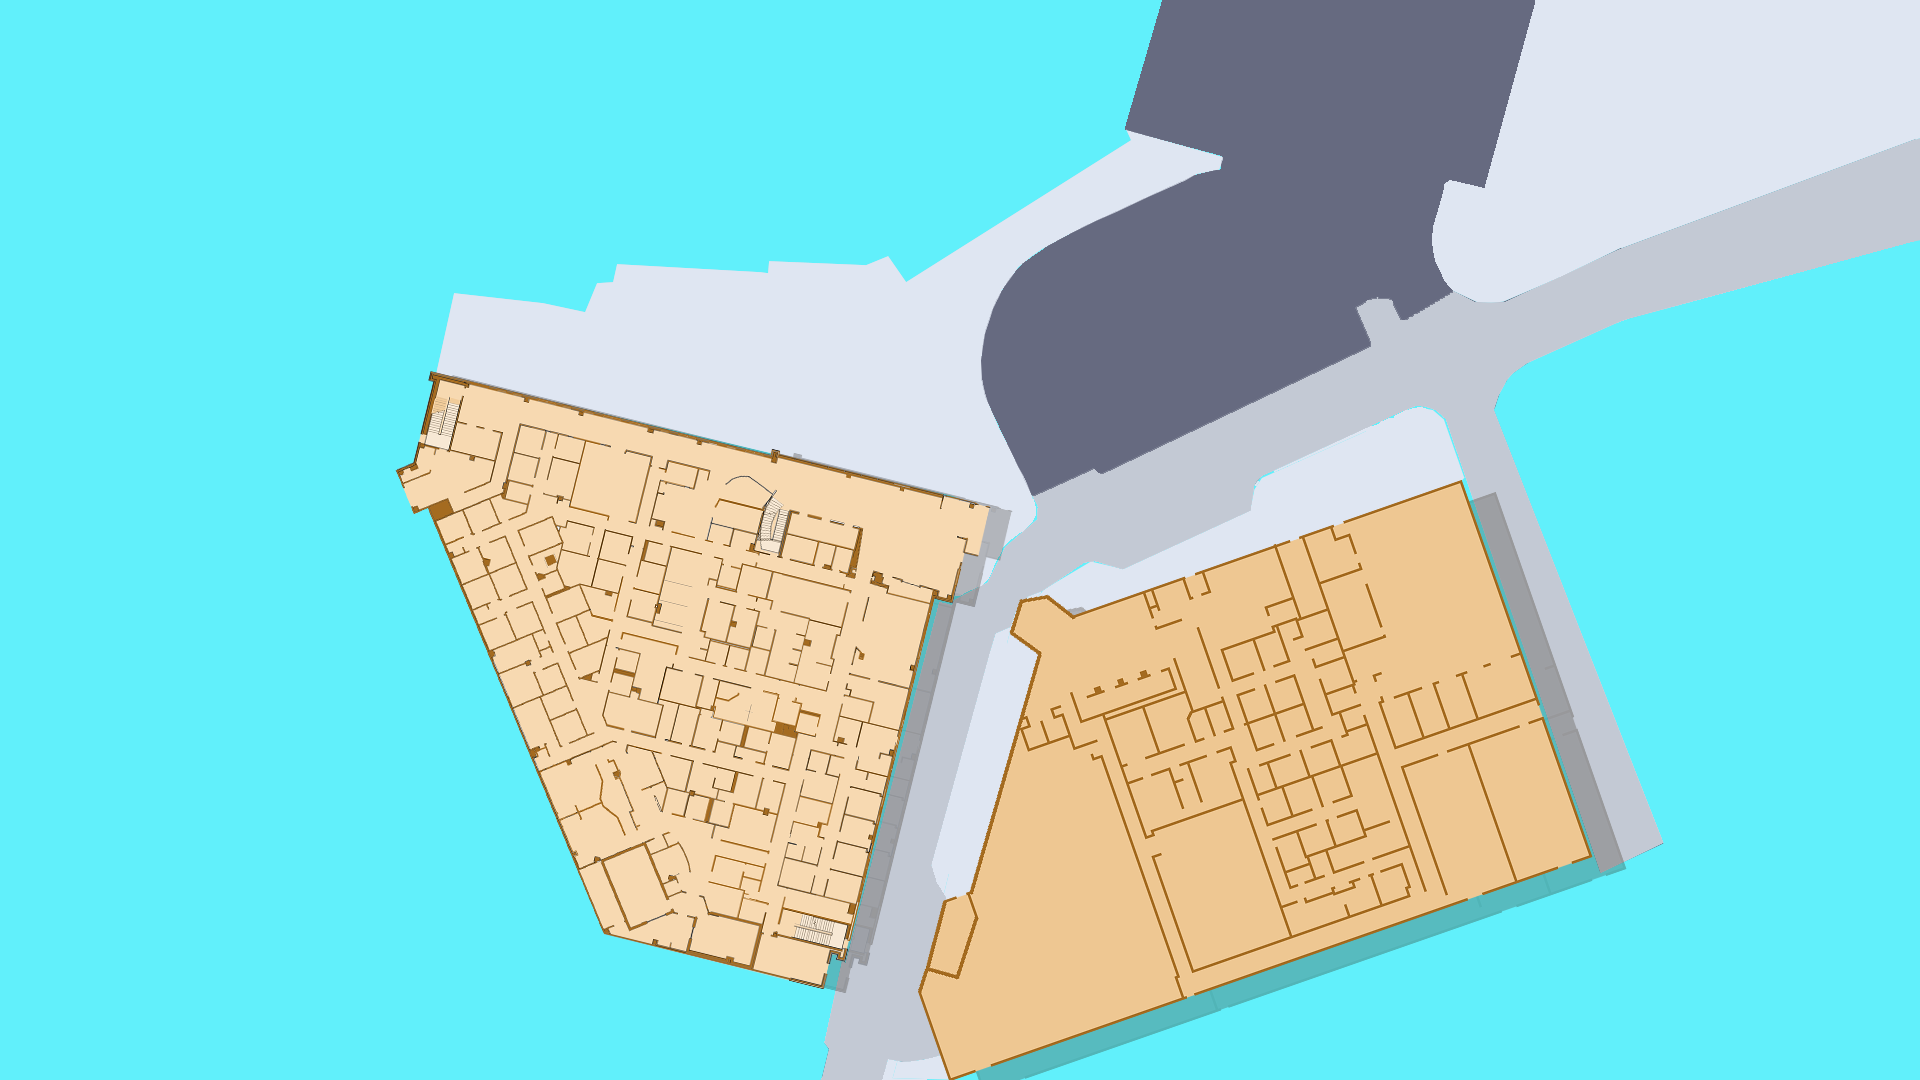
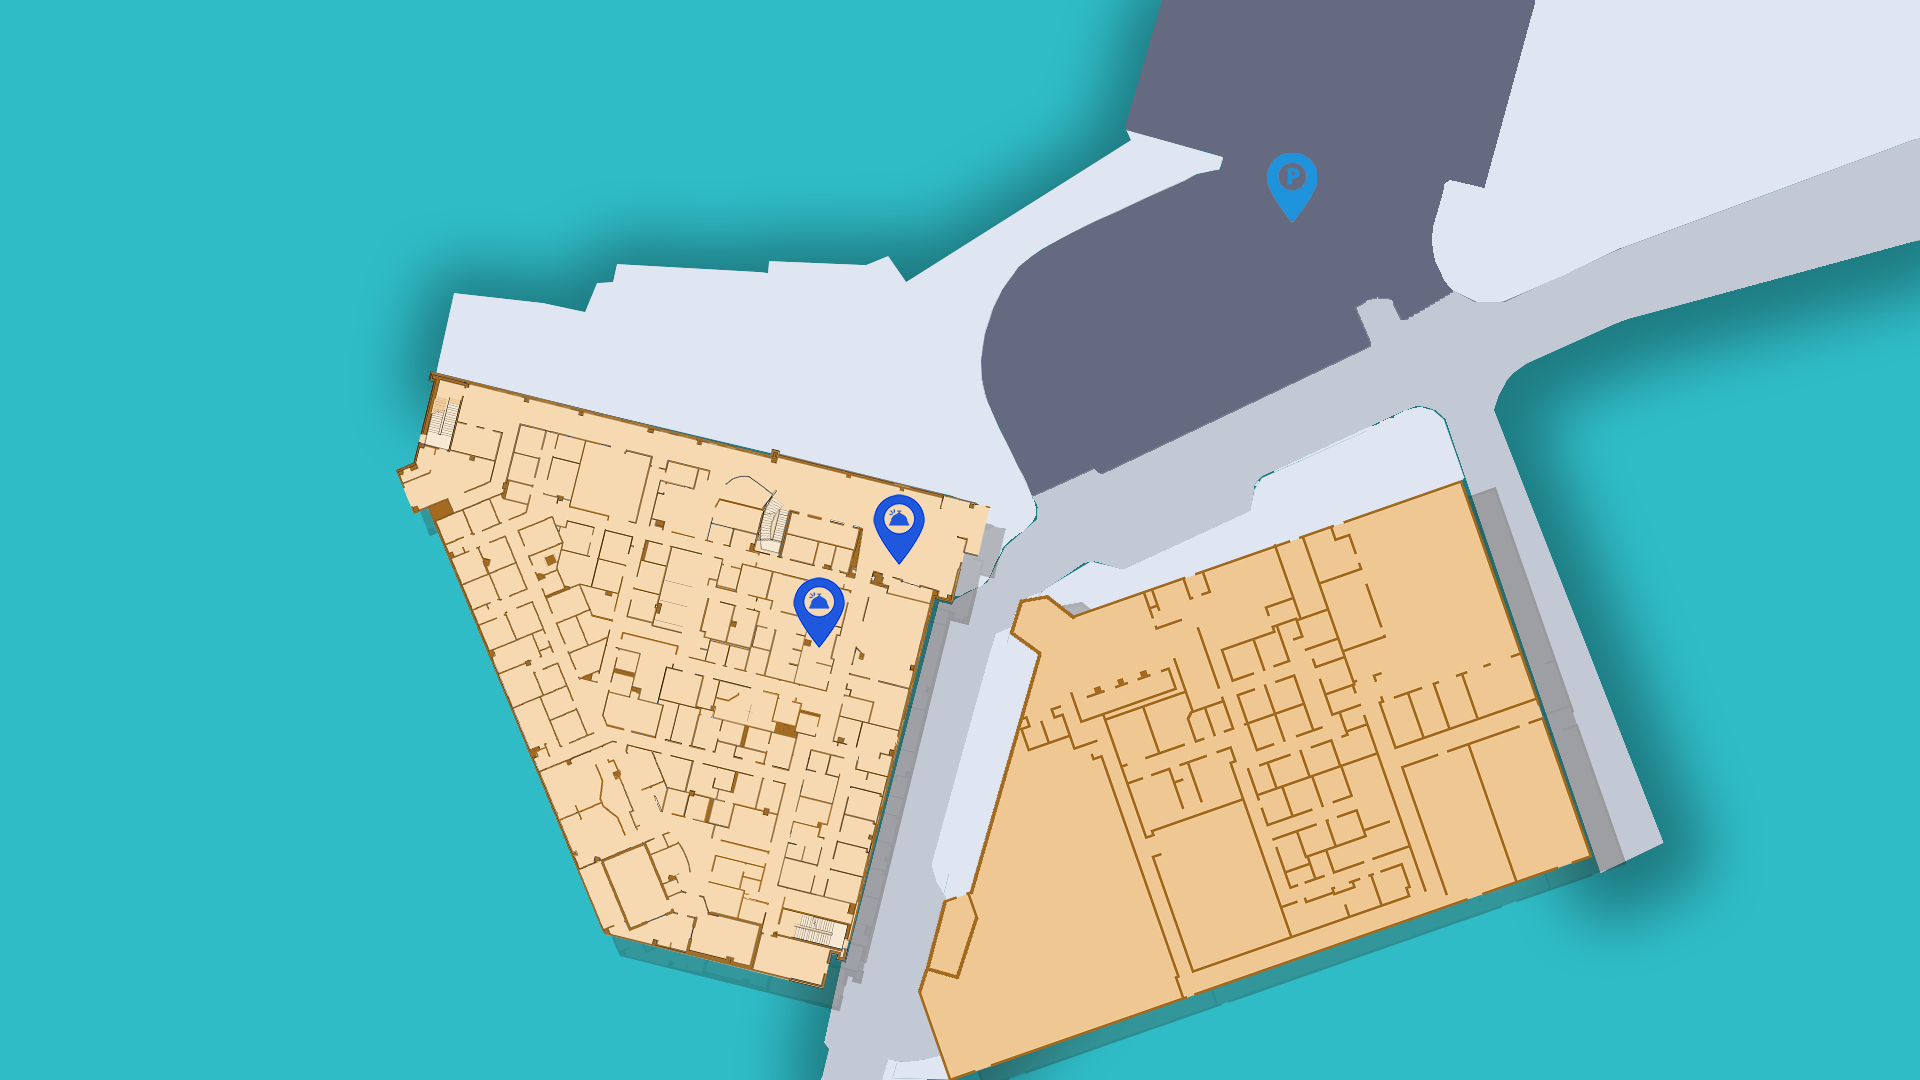
Added revised floor maps and floor transition + added Chestnut Hill

diff --git a/apps/frontend/src/IndoorMapPage/DraggableMap.tsx b/apps/frontend/src/IndoorMapPage/DraggableMap.tsx
@@ -6,6 +6,7 @@ import CustomCompass from "./CustomCompass.tsx";
 
 export function DraggableMap() {
   const [floor, setFloor] = useState(1);
+  const [isFading, setIsFading] = useState(false);
   const theme = useMantineTheme();
   const canvasId = 'insideMapCanvas';
 
@@ -16,18 +17,19 @@ export function DraggableMap() {
     const renderer = new THREE.WebGLRenderer({
       canvas: canvas as HTMLCanvasElement,
       antialias: true
+
     });
     renderer.setSize(canvas.clientWidth, canvas.clientHeight);
     renderer.setPixelRatio(window.devicePixelRatio);
 
-    const camera = new THREE.PerspectiveCamera(50, canvas.clientWidth / canvas.clientHeight, 250, 10000);
+    const camera = new THREE.PerspectiveCamera(50, 1920 / 1080, 250, 1000);
     camera.position.set(0, 0, 300);
 
     const scene = new THREE.Scene();
 
 
     scene.background = new THREE.Color(
-      theme.colors.terquAccet[8])
+      "#2FBCC7")
 
 
     const compass = new CustomCompass(camera, renderer, {
@@ -48,8 +50,12 @@ export function DraggableMap() {
     if(floor === 4){
       texturePath = "./MapImages/Patriot Place Floor 4.png"
     }
+    if(floor === 5){
+      texturePath = "./MapImages/Chestnut Hill Floor 1.png"
+    }
 
     const mapTexture = new THREE.TextureLoader().load(texturePath);
+    mapTexture.colorSpace = THREE.SRGBColorSpace
     const mapGeo = new THREE.PlaneGeometry(500, 400);
     const mapMaterial = new THREE.MeshBasicMaterial({ map: mapTexture });
     const mapPlane = new THREE.Mesh(mapGeo, mapMaterial);
@@ -89,10 +95,36 @@ export function DraggableMap() {
 
   }, [floor]);
 
+
+  const handleFloorChange = (newFloor: number) => {
+    if (newFloor === floor) return;
+    setIsFading(true);
+    setTimeout(() => {
+      setFloor(newFloor);
+      setTimeout(() => {
+        setIsFading(false);
+      }, 200); // Fade-in duration
+    }, 200); // Fade-out duration
+  };
   return (
     <Box w="100vw" h="100vh" p={0}>
-      <FloorSwitchBox floor={floor} setFloor={setFloor} />
+      <FloorSwitchBox floor={floor} setFloor={handleFloorChange} />
       <canvas id="insideMapCanvas" style={{ width: "100%", height: "100%", position: "absolute" }} />
+
+      <div
+        style={{
+          position: "absolute",
+          top: 0,
+          left: 0,
+          width: "100%",
+          height: "100%",
+          backgroundColor: "#000",
+          opacity: isFading ? 1 : 0,
+          transition: "opacity 0.3s ease-in-out",
+          pointerEvents: "none",
+          zIndex: 5
+        }}
+        />
     </Box>
   );
 }

diff --git a/apps/frontend/src/IndoorMapPage/components/FloorManagerBox.tsx b/apps/frontend/src/IndoorMapPage/components/FloorManagerBox.tsx
@@ -29,7 +29,7 @@ const FloorSwitchBox: React.FC<FloorSwitchBoxProps> = ({ floor, setFloor, onColl
   return (
     <Box
       pos="fixed"
-      top={500}
+      top={450}
       left={1250}
       style={{
         zIndex: 999,
@@ -49,6 +49,7 @@ const FloorSwitchBox: React.FC<FloorSwitchBoxProps> = ({ floor, setFloor, onColl
             onChange={(value) => setFloor(parseInt(value))}
             data={
             [
+              {label: "CH 1", value: "5"},
               {label: '4', value: "4"},
               {label: '3', value: "3"},
               {label: '1', value: "1"},
@@ -62,7 +63,7 @@ const FloorSwitchBox: React.FC<FloorSwitchBoxProps> = ({ floor, setFloor, onColl
               },
               label: {
                 fontWeight: 600,
-                color: "#001D4D"
+                color: "white"
               },
               indicator: {
                 backgroundColor: "#FCB024",
